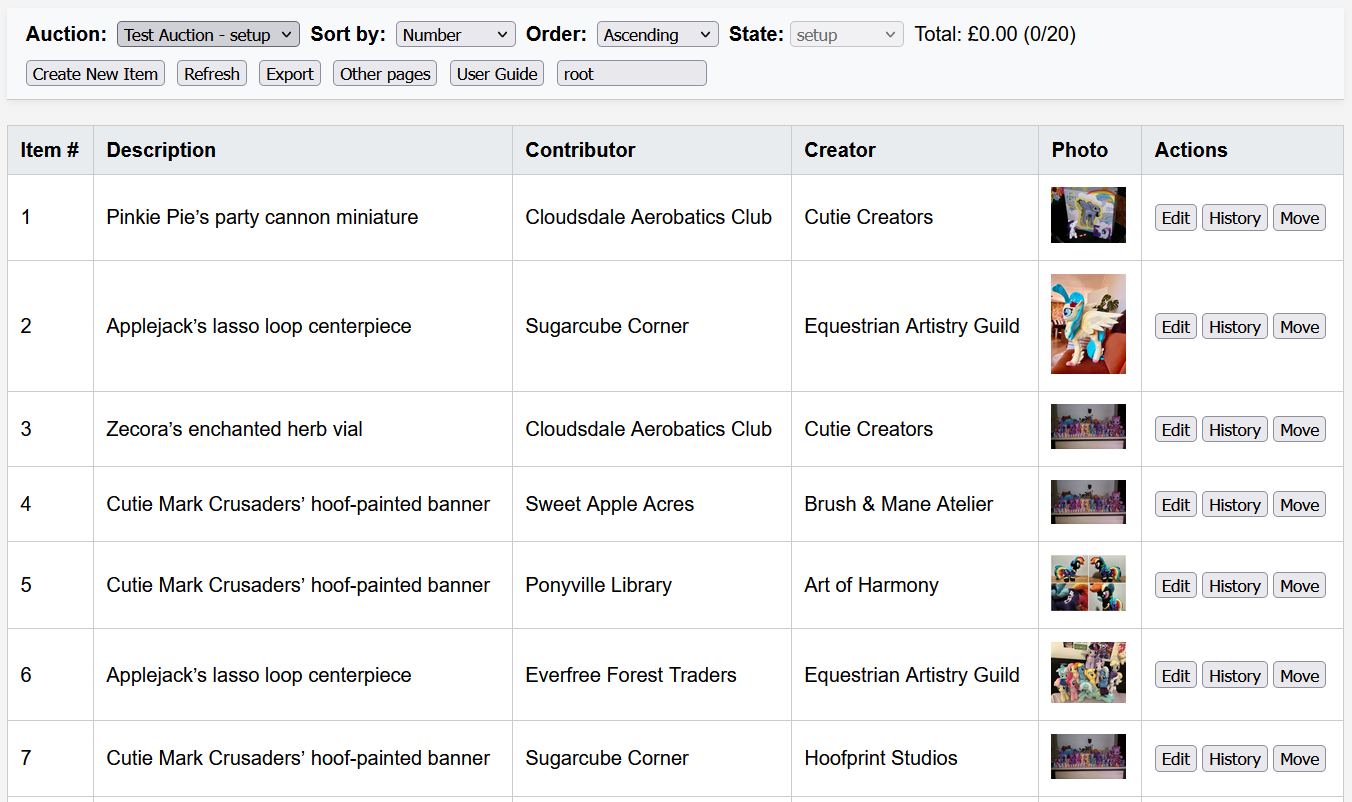
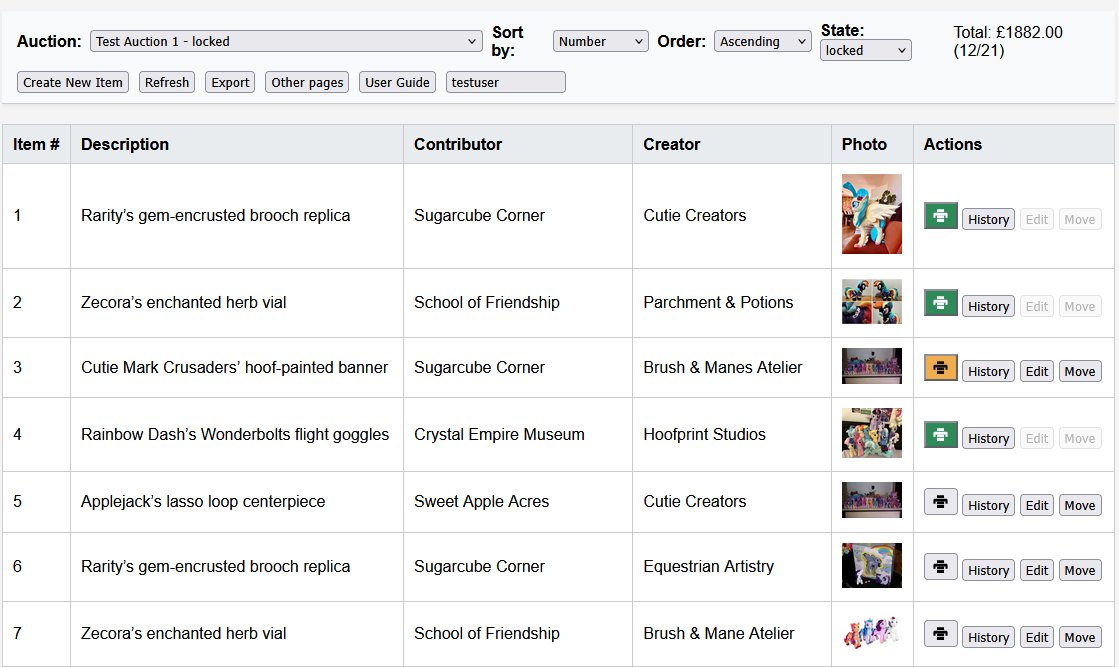
Update screenshots in user guide

diff --git a/docs/user-guide.html b/docs/user-guide.html
@@ -154,19 +154,19 @@ document.addEventListener("DOMContentLoaded", () => {
     <img class="placeholder screenshot-small" src="images/admin-auction-tools.png" alt="Admin auction tools screenshot">
 
     <h3>Item Management</h3>
-    <p>The controls available will depend on the auction state (and for moves, the state of the target auction).</p>
+    <p>The controls available will depend on the auction state (and for moves, the state of the target auction). Items with recorded bids cannot be edited or moved</p>
     <ul>
       <li><strong>Create New Item:</strong> Opens the item form to enter a new submission with optional photo and notes.</li>
       <li><strong>Edit:</strong> Opens the edit form to modify the selected item.</li>
       <li><strong>Print Slip:</strong> Generates a single-item PDF for local printing (receipt or label, depending on configuration).</li>
-      <li><strong>Print confirmation:</strong> After the print dialogue closes, a confirmation modal asks whether printing succeeded. The print tracking timestamp is only updated when confirmed.</li>
+      <li><strong>Print confirmation:</strong> After the print dialogue closes, a confirmation asks whether printing succeeded. The print tracking icon is only updated when confirmed.</li>
       <li><strong>Photo Tools:</strong> Rotate, crop, or replace an image.</li>
       <li><strong>Delete:</strong> Remove the item and its photos permanently.</li>
-      <li><strong>Move within auction:</strong> Move the item within the auction. It will be placed after the selected specific item.</li>
+      <li><strong>Move within auction:</strong> Move the item within the auction. It will be placed after the selected item.</li>
       <li><strong>Move to auction:</strong> Move the item to a different auction. The item will be placed at the end of the target auction</li>
       <li><strong>History:</strong> Displays a detailed log of changes for a specific item, including timestamp, user, and action type.</li>
     </ul>
-    <p><strong>Print icon status colours:</strong> grey = never printed, green = printed and up to date, yellow = item changed after last print (slip may be out of date).</p>
+    <p><strong>Print icon status colours:</strong> grey = never printed, green = printed and up to date, yellow = item text changed after last print (slip may be out of date).</p>
     <img class="placeholder screenshot-small" src="images/admin-edit.png" alt="Admin item management screenshot">
 
     <h3>Bid controls</h3>
@@ -248,6 +248,9 @@ document.addEventListener("DOMContentLoaded", () => {
       <li><strong>Cutter:</strong> Enable auto-cut and set cut mode to cut after each page/job so each slip is separated.</li>
       <li><strong>Paper feed:</strong> Ensure top-of-form/start position is calibrated to avoid vertical drift between slips.</li>
     </ul>
+
+        <img class="placeholder screenshot-small" src="images/admin-slip-print.png" alt="Admin slip print setup screenshot">
+
 
     <h3>6x4 Label Printer</h3>
     <ul>

diff --git a/README.md b/README.md
@@ -41,9 +41,9 @@ This software provides a single platform which automates the process from item s
 
 ## Installation
 
-For general server setup see docs/installation.md
-For payment setup see docs/sumup_setup.md
-For Powerpoint & Item slip template setup see docs/pptx_template_editing.md
+- For general server setup see docs/installation.md
+- For payment setup see docs/sumup_setup.md
+- For Powerpoint & Item slip template setup see docs/pptx_template_editing.md
 
 ## Quick-start
 
